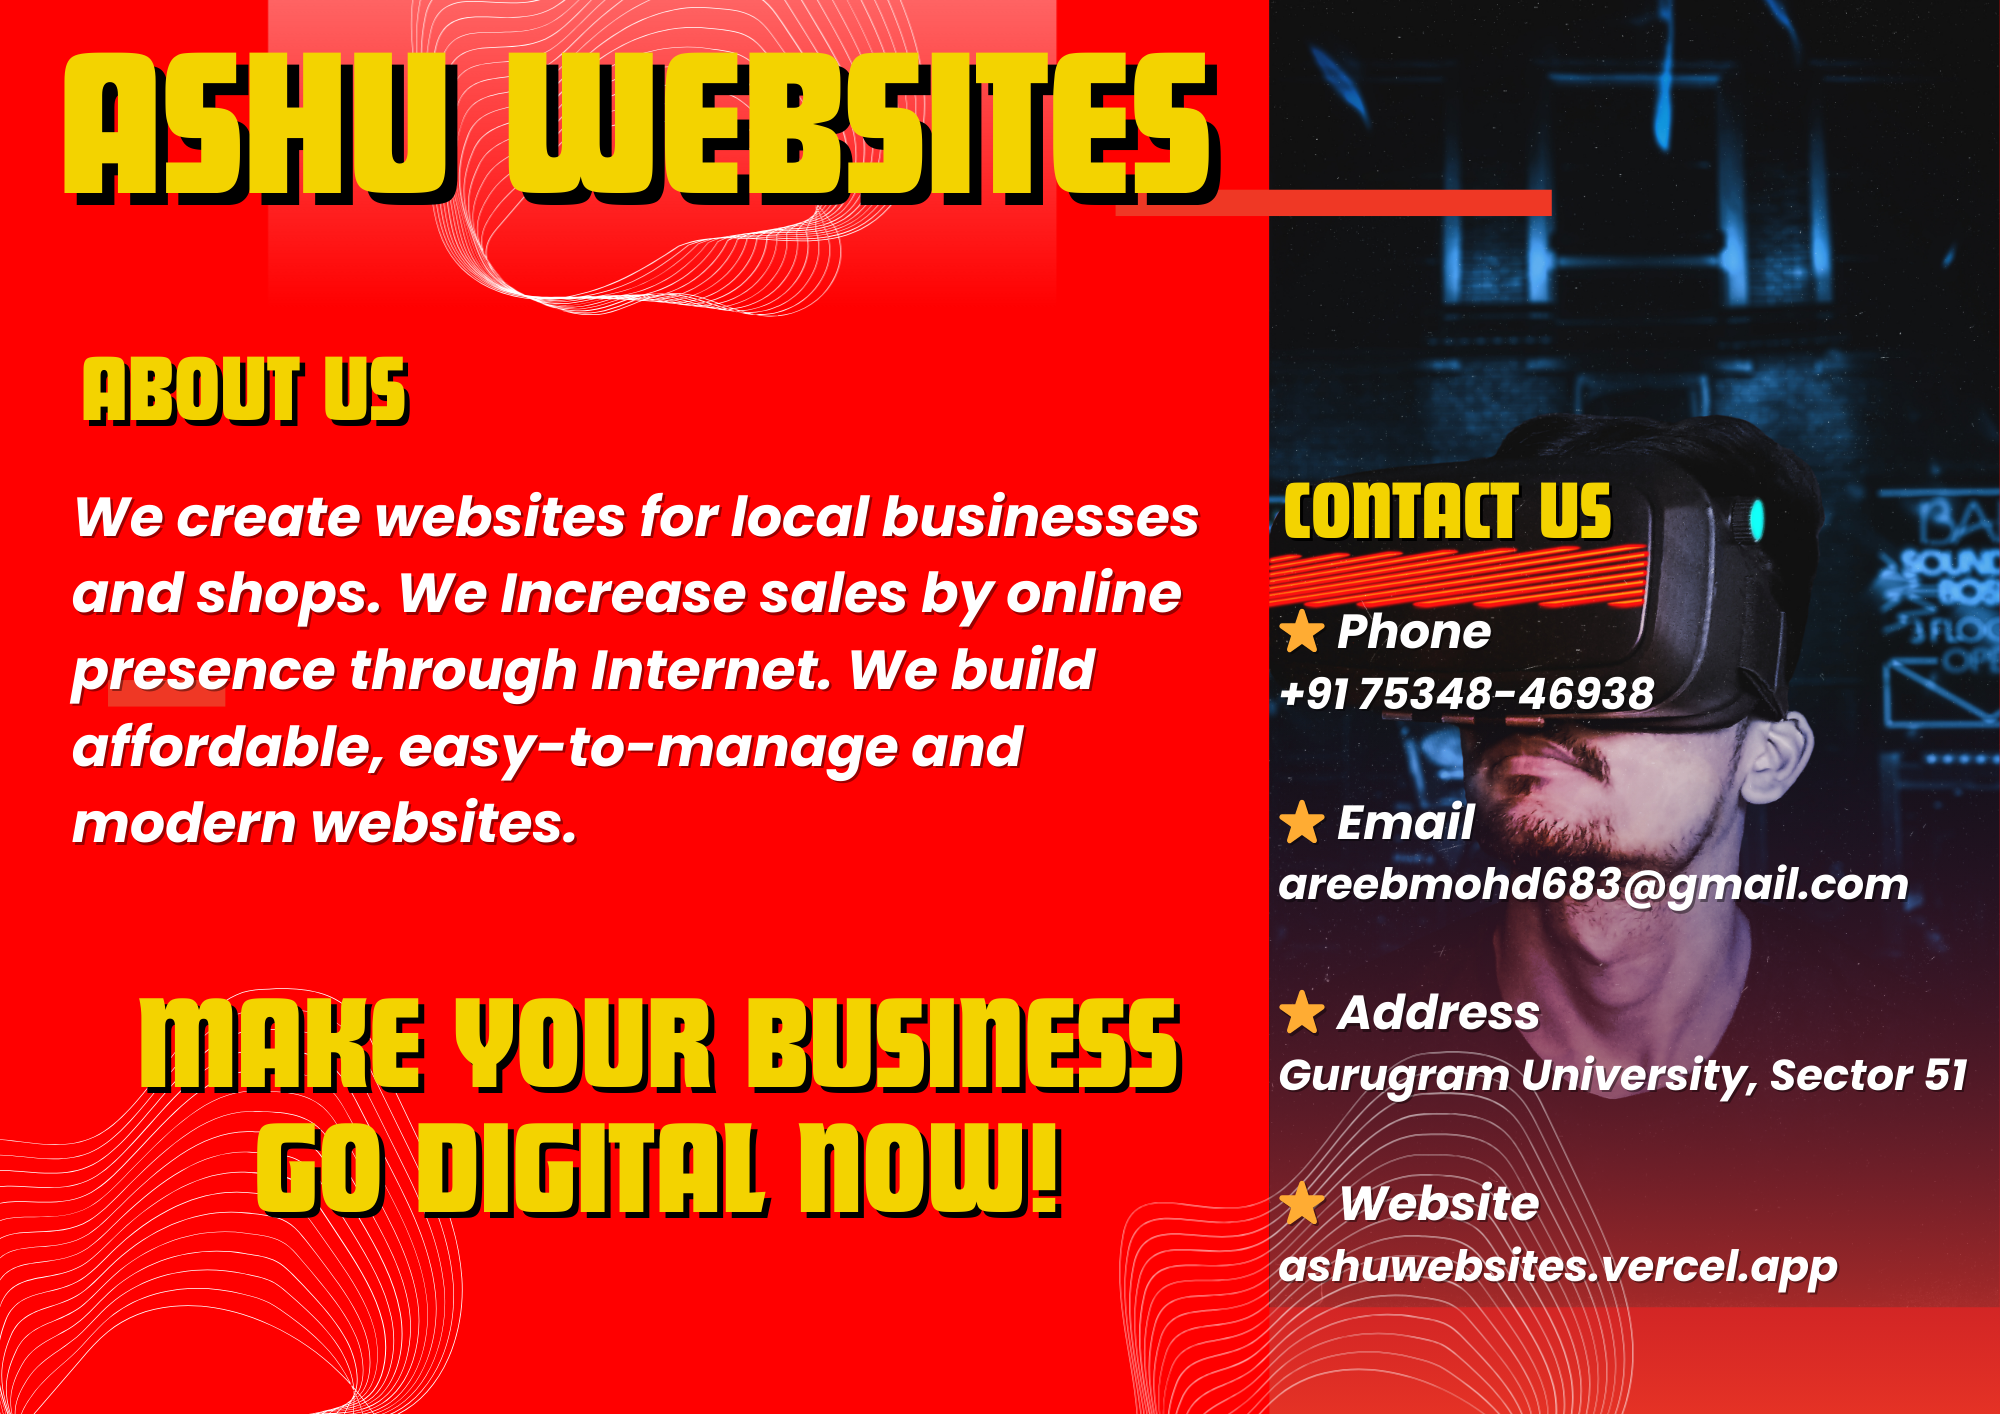
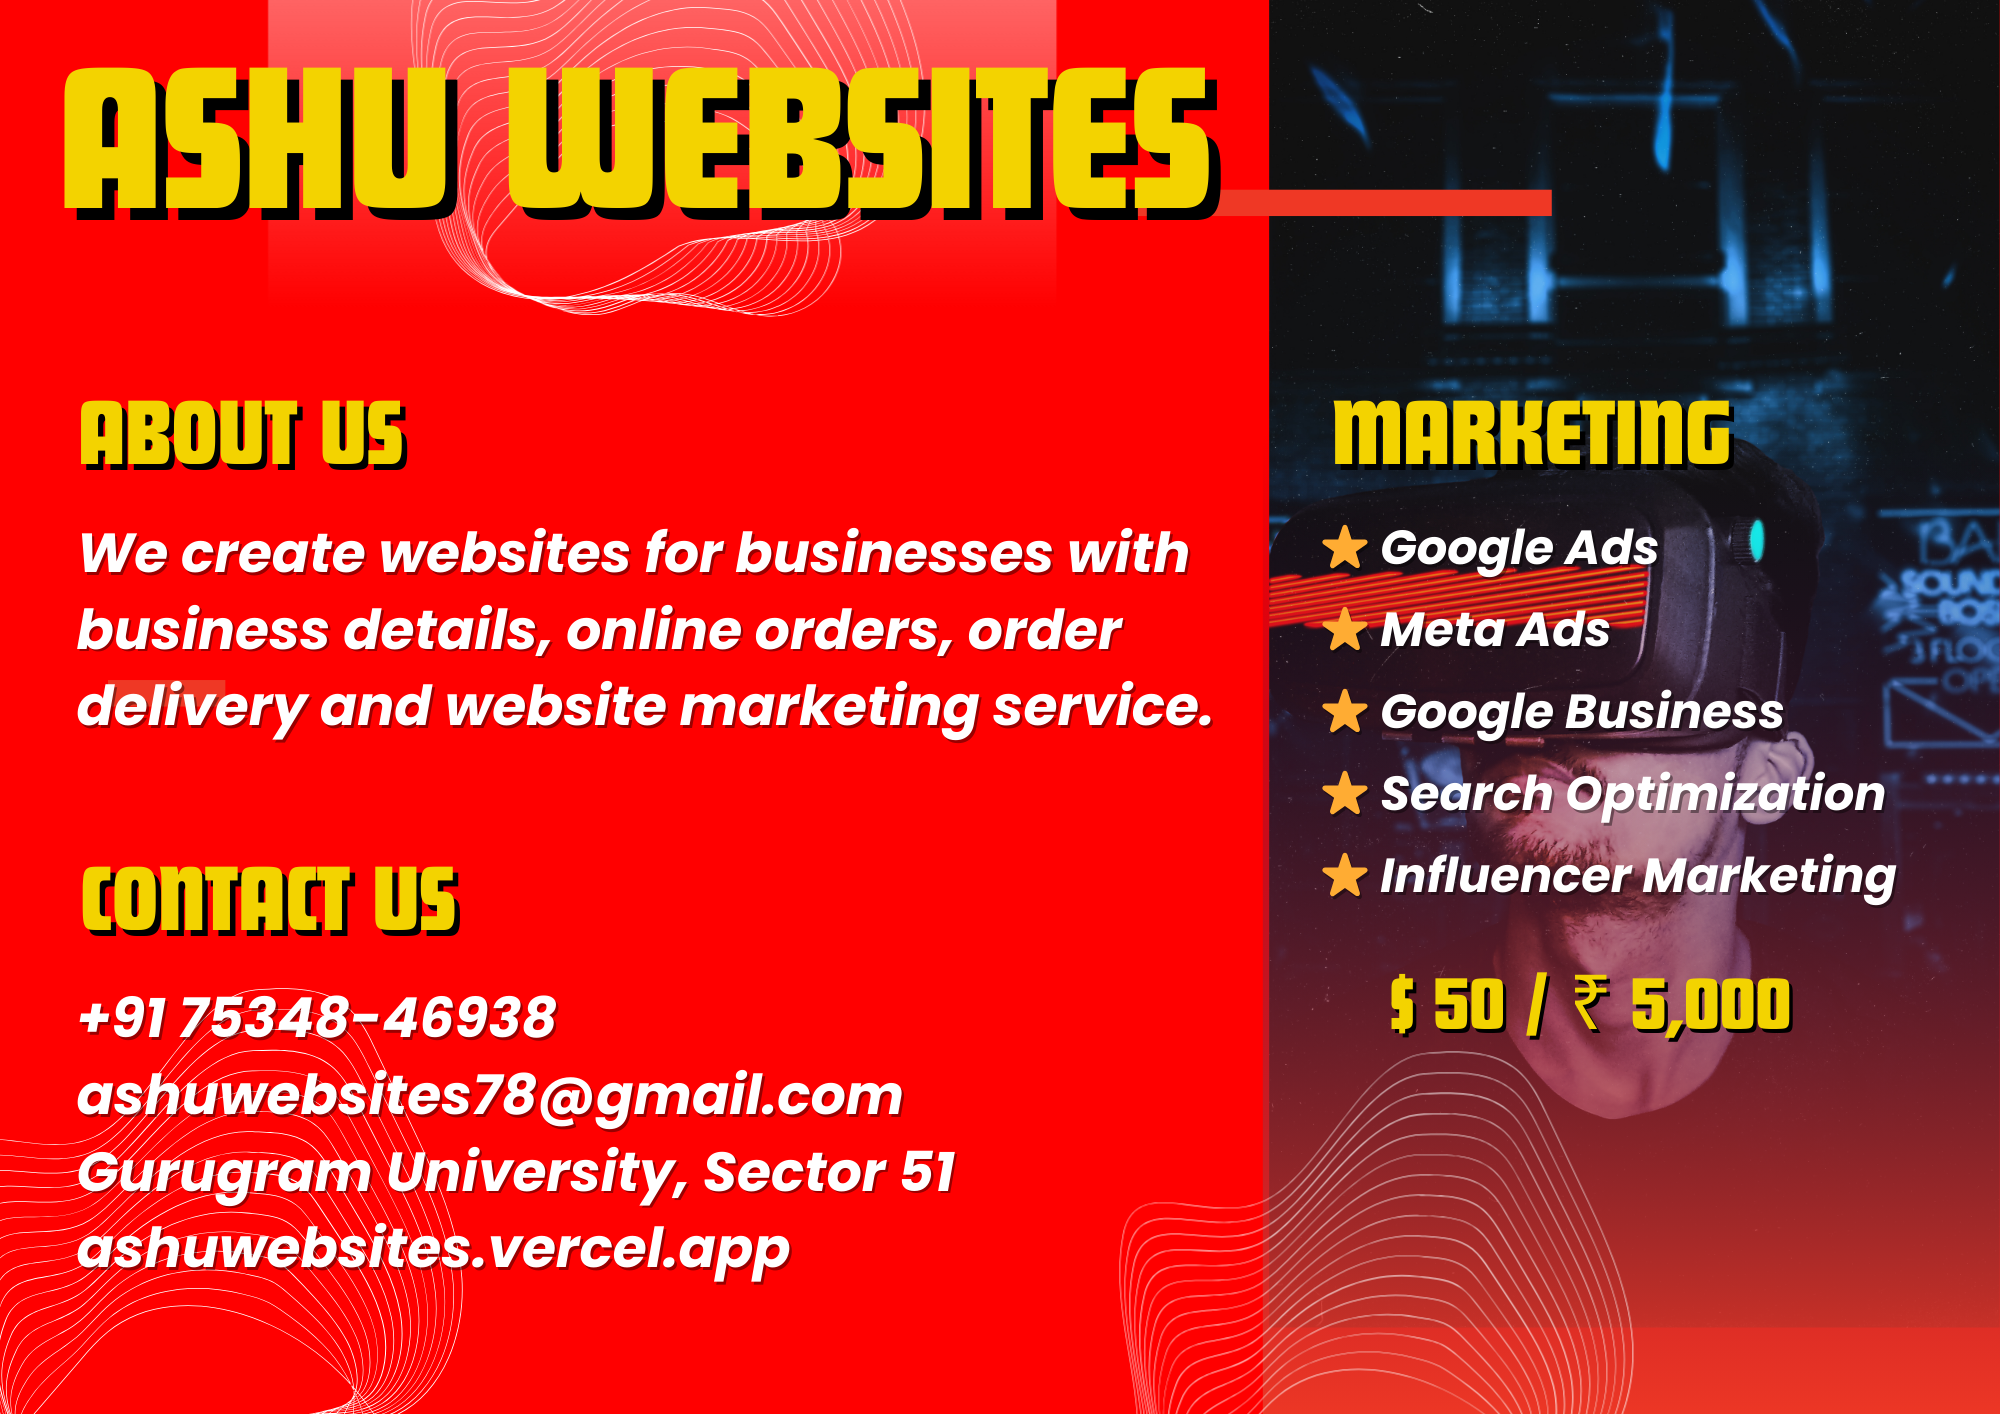
new images added and seo improved

diff --git a/index.html b/index.html
@@ -6,37 +6,37 @@
     <title>Ashu Websites</title>
     <meta
       name="description"
-      content="Professional web development services by Ashu Websites. We create responsive, high-performance, and SEO-friendly websites tailored to your business needs."
+      content="Professional website development services for businesses. We create responsive, high-performance, and SEO-friendly websites with marketing services."
     />
-    <link rel="canonical" href="https://ashuwebsites.com/" />
+    <link rel="canonical" href="https://ashuwebsites.vercel.app/" />
 
     <!-- Open Graph / Facebook -->
     <meta property="og:type" content="website" />
-    <meta property="og:url" content="https://ashuwebsites.com/" />
+    <meta property="og:url" content="https://ashuwebsites.vercel.app/" />
     <meta
       property="og:title"
-      content="Ashu Websites - Expert Web Development Services"
+      content="Ashu Websites - Expert Website Development Services"
     />
     <meta
       property="og:description"
-      content="Professional web development services by Ashu Websites. We create responsive, high-performance, and SEO-friendly websites."
+      content="Professional website development services for businesses. We create responsive, high-performance, and SEO-friendly websites with marketing services."
     />
-    <meta property="og:image" content="https://ashuwebsites.com/ASTIcon.png" />
+    <meta property="og:image" content="https://ashuwebsites.vercel.app/ASTIcon.png" />
 
     <!-- Twitter -->
     <meta property="twitter:card" content="summary_large_image" />
-    <meta property="twitter:url" content="https://ashuwebsites.com/" />
+    <meta property="twitter:url" content="https://ashuwebsites.vercel.app/" />
     <meta
       property="twitter:title"
-      content="Ashu Websites - Expert Web Development Services"
+      content="Ashu Websites - Expert Website Development Services"
     />
     <meta
       property="twitter:description"
-      content="Professional web development services by Ashu Websites. We create responsive, high-performance, and SEO-friendly websites."
+      content="Professional website development services for businesses. We create responsive, high-performance, and SEO-friendly websites with marketing services."
     />
     <meta
       property="twitter:image"
-      content="https://ashuwebsites.com/ASTIcon.png"
+      content="https://ashuwebsites.vercel.app/ASTIcon.png"
     />
 
     <link rel="icon" type="image/png" href="ASTIcon.png" />
@@ -45,7 +45,7 @@
   <body>
     <header style="display: none">
       <h1>Ashu Websites</h1>
-      <p>Building Digital Excellence</p>
+      <p>Building Business Websites with Marketing Services</p>
     </header>
 
     <main>
@@ -93,7 +93,7 @@
           "@type": "PostalAddress",
           "addressCountry": "IN"
         },
-        "description": "Professional web development services specializing in responsive and SEO-friendly websites."
+        "description": "Professional website development services specializing in responsive and SEO-friendly websites with marketing services."
       }
     </script>
   </body>
